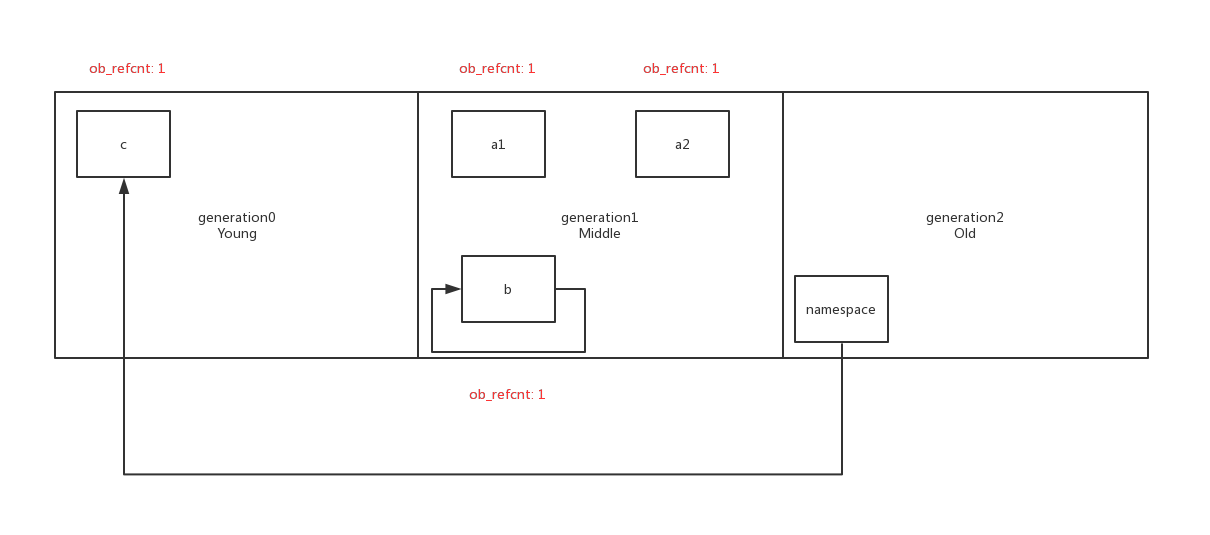
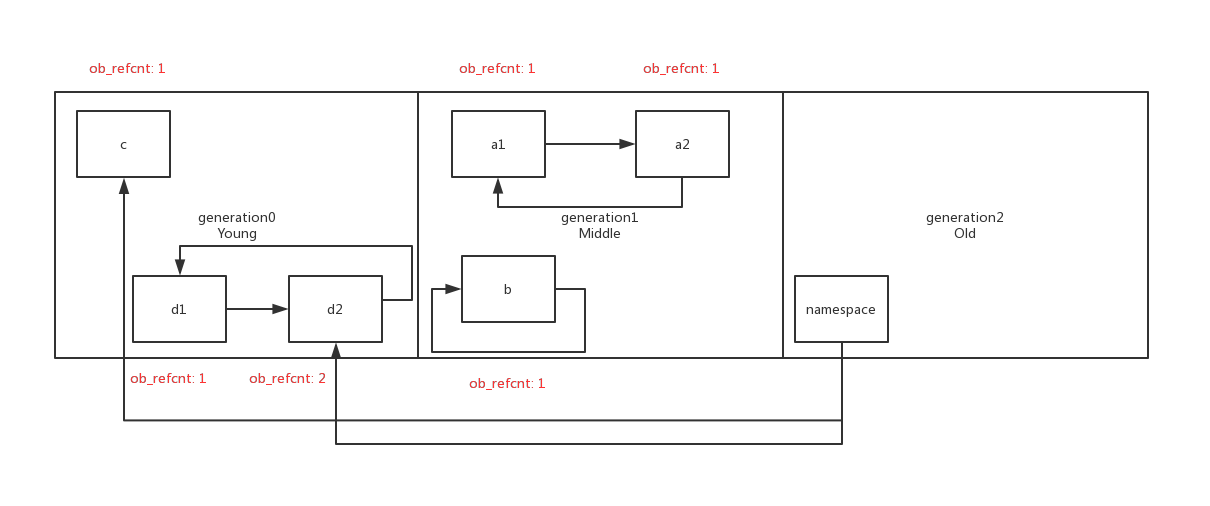
gc v0.7

diff --git a/Interpreter/gc/gc.md b/Interpreter/gc/gc.md
@@ -13,6 +13,7 @@
 		* [generational](#generational)
 		* [update_refs](#update_refs)
 		* [subtract_refs](#subtract_refs)
+		* [move_unreachable](#move_unreachable)
 		* [finalize](#finalize)
 		* [threshold](#threshold)
 * [summary](#summary)
@@ -81,7 +82,7 @@ in the first line `s = []`
 `2 STORE_NAME               0`
 
     case TARGET(STORE_NAME): {
-    	/* name is str object with value 's'
+        /* name is str object with value 's'
            ns is the local namespace
            v is the previous created list object
         */
@@ -224,6 +225,7 @@ If there's only one mechanism **reference counting** working, the interpreter wi
     >>> a2 = A()
     >>> a1.other = a2
     >>> a2.other = a1
+
     >>> b = list()
     >>> b.append(b)
 
@@ -231,7 +233,7 @@ If there's only one mechanism **reference counting** working, the interpreter wi
 
 there must be a way to keep track of all the heap allocated **PyObject**
 
-**generation0** is a pointer, to the head of the double linked list, each element in the double linked list consists of two parts, the first part is **PyGC_Head**, the second part is **PyObject**
+**generation0** is a pointer, to the head of the linked list, each element in the linked list consists of two parts, the first part is **PyGC_Head**, the second part is **PyObject**
 
 **PyGC_Head** contains a **_gc_next** pointer(for tracking the next element in linked list) and a **_gc_prev** pointer(for tracking the previous element in linked list)
 
@@ -241,13 +243,15 @@ there must be a way to keep track of all the heap allocated **PyObject**
 
 when you create a python object such as `a = list()`, object **a** of type **list** will be appended to the end of the linked list in **generation0**, so **generation0** is able to track all the newly created python object
 
+actually, the linked list is linked via **_gc_next**, **_gc_prev** is not a valid pointer, it's used for storing bit flag and other information
+
 ##### generational
 
-if all newly created object are appended to the tail of a single linked list, for some program, it will be a very huge linked list
+if all newly created objects are appended to the tail of one linked list, somehow it will be a very huge linked list
 
 for some program designed for running for a long time, there must exist some long lived objects, repeating garbage collecting these objects will waste lots of CPU time
 
-generations is used for the purpose of doing less collections
+generations is used in the purpose of doing less collections
 
 Cpython used three generations totally, the newly created objects is stored in the first generation, when an object survive a round of gc, it will be moved to next generation
 
@@ -261,14 +265,56 @@ when a generation is being collected, all the generations lower than the current
 
 let's run a procedure of garbage collection
 
+	# assume a1, a2, b survived in generation0, and move to generation1
+    >>> c = list()
+    >>> d1 = A()
+    >>> d2 = A()
+    >>> d1.other2 = d2
+    >>> d2.other2 = d1
+
     >>> del a1
     >>> del a2
     >>> del b
-    >>> c = list()
-	>>> gc.collect()
+    >>> del d1
+	>>> gc.collect() # assume collect generation1
 
 ![update_ref1](https://github.com/zpoint/CPython-Internals/blob/master/Interpreter/gc/update_ref1.png)
 
+first step is to merge every generation lower than the current generation, mark this merged generation as **young**, mark the generation next to the current generation as **old**
+
+![young_old](https://github.com/zpoint/CPython-Internals/blob/master/Interpreter/gc/young_old.png)
+
+function **update_refs** will copy object's reference count, stores in the **_gc_prev** field of the object, the right most 2 bit of **_gc_prev** is reserved of some marking
+
+so, the copy of the reference count will left shift 2 before stores in the **_gc_prev**
+
+`1 / 0x06` means the copy of the reference count is `1`, but the value actually stores in **_gc_prev** is `0x06`
+
+![update_ref2](https://github.com/zpoint/CPython-Internals/blob/master/Interpreter/gc/update_ref2.png)
+
+##### subtract_refs
+
+function **subtract_refs** will traverse the generation, iterate through every object in  the linked list
+
+for every object in the generation, check if every other object accessible from the current object is collectable and in the same generation, if so, decrement the copied reference count in **_gc_prev** (calls **tp_traverse** with the function **visit_decref**)
+
+this step aims to decrement reference count referenced by those objects in same generation
+
+![subtract_refs](https://github.com/zpoint/CPython-Internals/blob/master/Interpreter/gc/subtract_refs.png)
+
+##### move_unreachable
+
+**move_unreachable** will create a linked list named **unreachable**, traverse the current **generation**, move those objects with the value of the copy of the reference count <= 0 to **unreachable**
+
+if the current object has the value of the copy of the reference count > 0, mark every other object accessible from the current object as reachable, if the accessible object is currently in **unreachable**, move it back to normal **generation**, and reset the **_gc_prev** pointer
+
+first object in **generation** is the local **namespace**, because **namespace** object is reachable, all objects reachable from the local **namespace** is also reachable, so the **_gc_prev** of `c` and `d2` are all set to `0x06`
+
+![move_unreachable1](https://github.com/zpoint/CPython-Internals/blob/master/Interpreter/gc/move_unreachable1.png)
+
+`a1` and `a2` are moved to unreachable
+
+![move_unreachable2](https://github.com/zpoint/CPython-Internals/blob/master/Interpreter/gc/move_unreachable2.png)
 
 ### summary
 
